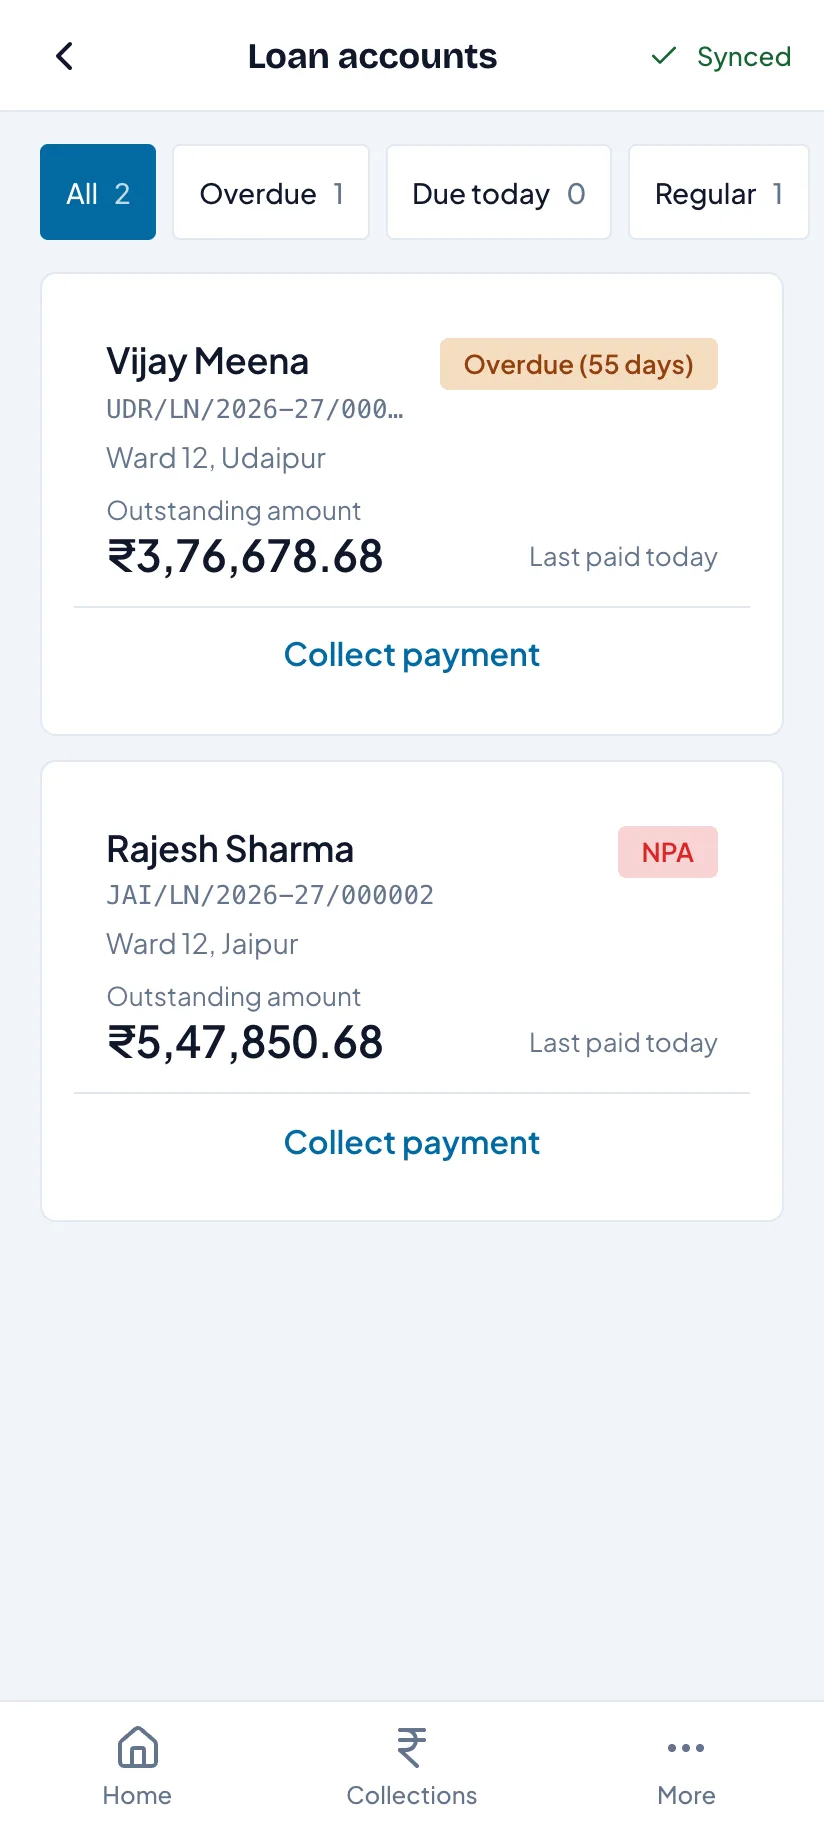
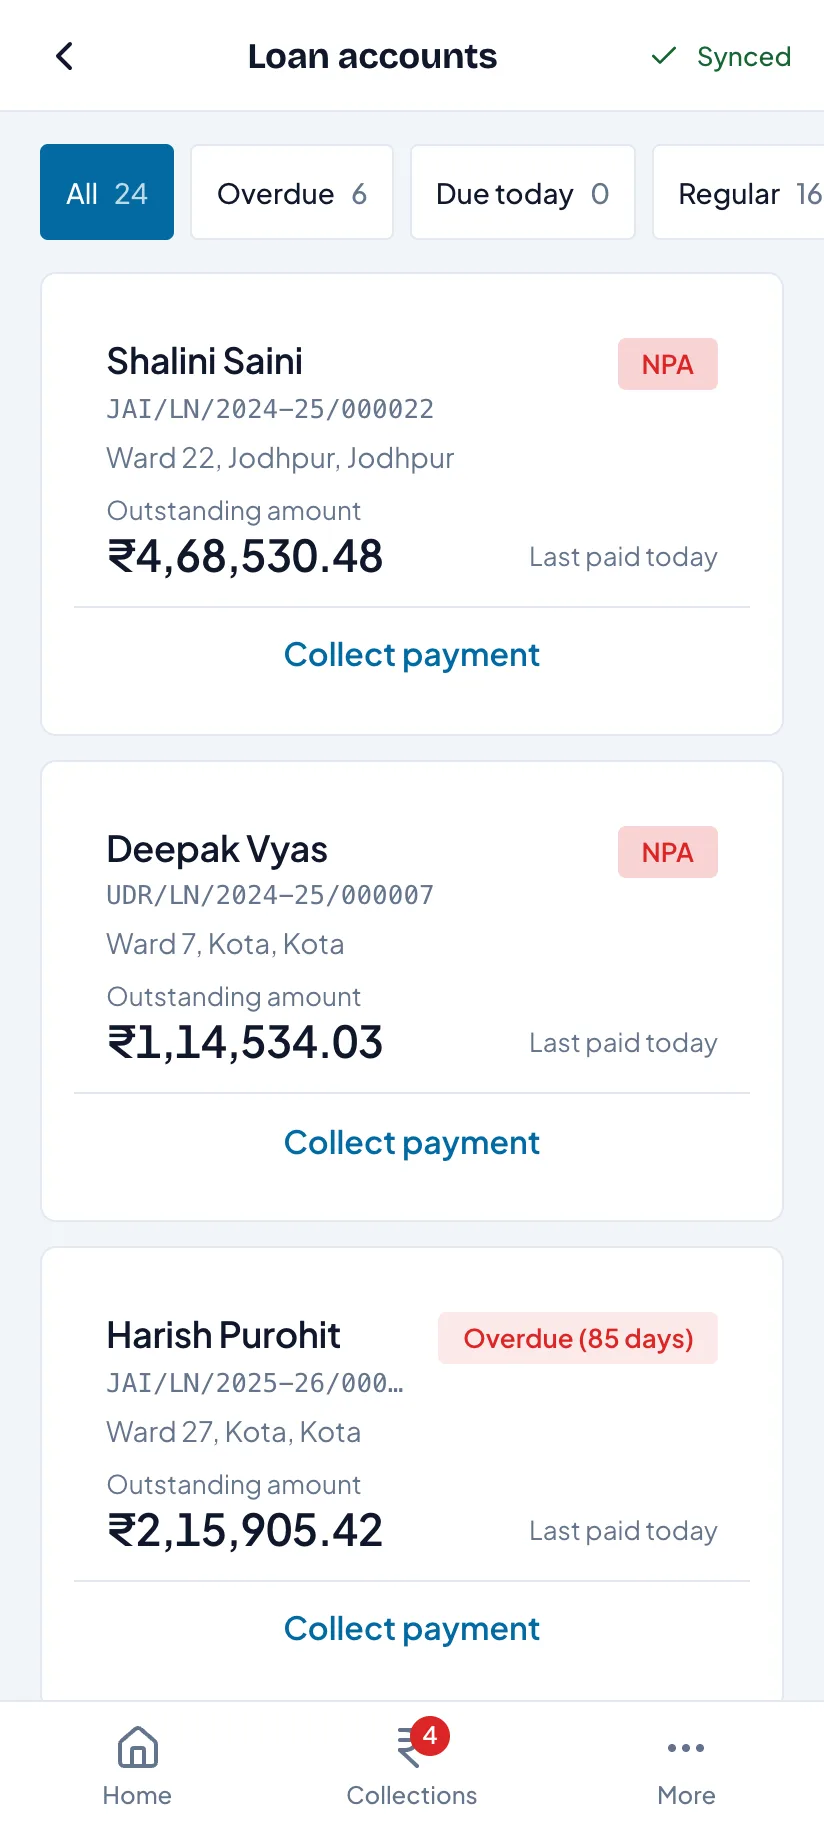
feat(shots): retake every screenshot from a book worth showing, and use three more
The pictures on this site were taken from a development tenant whose seeded book
had rotted: a third of it NPA, gold loans with no board rate behind them, an
empty Leads screen and an approver inbox reading "nothing awaiting your
approval". Two images were already excluded for it; the rest were carrying the
same book quietly.

All twenty are regenerated against a repaired demonstration tenant — 55 loans,
1.12% GNPA by value, four genuine NPAs, a live origination pipeline and two
quarters of RBI returns filed — and every one was opened and looked at rather
than counted in a file listing. That is how `field-collect` was found to have
shipped as a 404 page; the generator now refuses to write one.

Three images that had nowhere to go now do:

  - the head-office dashboard on the home page, under the claim it evidences —
    that the portfolio and the accounts are one set of facts;
  - the leads screen beside the field-capture walkthrough, so the enquiry taken
    at the door is shown arriving on the branch's screen;
  - the disbursement register on the disbursement page, which is the register an
    inspection asks for.

And one caption corrected: the account it points at is SMA-0, not SMA-1. A
caption that describes a different screen from the one above it is worse than no
caption, because the reader trusts it.

diff --git a/src/app/page.tsx b/src/app/page.tsx
@@ -3,6 +3,7 @@ import Link from "next/link";
 import { SITE } from "@/lib/site";
 import { Container, Section, SectionHead, Card, ButtonLink } from "@/components/ui";
 import { Reveal } from "@/components/reveal";
+import { Shot } from "@/components/shot";
 import { HeroPortfolioCard } from "@/components/hero-portfolio-card";
 
 export const metadata: Metadata = {
@@ -166,6 +167,17 @@ export default function HomePage() {
             </Reveal>
           ))}
         </div>
+        {/*
+          * The claim above is that the portfolio and the accounts are one set of facts. This is
+          * that claim's evidence — the head-office view of a real demonstration book, generated
+          * from the running product, where the AUM, the collection, the asset quality and the
+          * origination pipeline are read from the same postings rather than assembled for a page.
+          */}
+        <Shot
+          name="dashboard"
+          alt="The Lenviq head-office dashboard showing assets under management, disbursement and collection for the month, gross NPA and provision coverage, the portfolio split by product, and the origination pipeline by stage"
+          caption="One book, read four ways — and every figure on it posted by the loan events themselves."
+        />
         <Reveal className="mt-s4">
           <Link href="/platform/" className="text-[15px] font-medium text-cta hover:text-cta-hover">
             The modules in depth →

diff --git a/src/app/platform/page.tsx b/src/app/platform/page.tsx
@@ -91,7 +91,7 @@ export default function PlatformPage() {
         <div className="mt-s4 grid gap-s5 sm:grid-cols-2">
           <PhoneShot
             name="field-account-summary"
-            alt="The Lenviq field app showing a borrower's account summary with the SMA-1 classification, the overdue position and the total payable now"
+            alt="The Lenviq field app showing a borrower's account summary with its SMA classification, the overdue position broken into penal, bounce, interest and principal, and the total payable now"
             caption="What the borrower will ask, before they ask it."
           />
           <PhoneShot

diff --git a/content/help/collect-a-payment-in-the-field.md b/content/help/collect-a-payment-in-the-field.md
@@ -9,7 +9,7 @@ audience: Field agent
 The round lists the doors for today, worst account first. Opening one shows what the borrower will
 ask about before they ask it.
 
-@phone field-account-summary | An account summary on the phone showing the borrower, the SMA-1 badge, the overdue position with the total payable, and the account's status | The overdue position first, and the largest number on the screen.
+@phone field-account-summary | An account summary on the phone showing the borrower, the SMA classification badge, the overdue position with the total payable, and the account's status | The overdue position first, and the largest number on the screen.
 
 ## Why the amount is what it is
 

diff --git a/content/help/disburse-a-loan.md b/content/help/disburse-a-loan.md
@@ -29,6 +29,8 @@ the EMI schedule, the DPD clock and every repayment's floor follow that date.
 Approving the same request twice releases the money once. The request is claimed the moment it is
 opened for release, so a double tap cannot produce two payments.
 
+@shot disbursement-register | The Lenviq disbursement register listing every payout with its date, application number, borrower, branch, amount and instrument | Every rupee that left, by date, instrument and branch — the register an inspection asks for.
+
 ## What happens next
 
 The loan account is created on the first tranche, the schedule is generated from the sanctioned

diff --git a/content/help/take-a-lead-in-the-field.md b/content/help/take-a-lead-in-the-field.md
@@ -28,6 +28,8 @@ which is a merge, and somebody's afternoon.
 Mobile, name, the lead's source and what the loan is for. The amount and tenure are indicative:
 the branch decides the scheme. Nothing that needs a document is asked at a gate.
 
+@shot leads | The Lenviq leads screen listing enquiries with their source, status, branch, indicative amount and next follow-up date, with overdue follow-ups marked in red | The same enquiry on the branch's screen a moment later, with the follow-up date it was promised.
+
 ## Create the customer there
 
 A lead becomes a **customer** first and a loan file after that. The customer record is what
